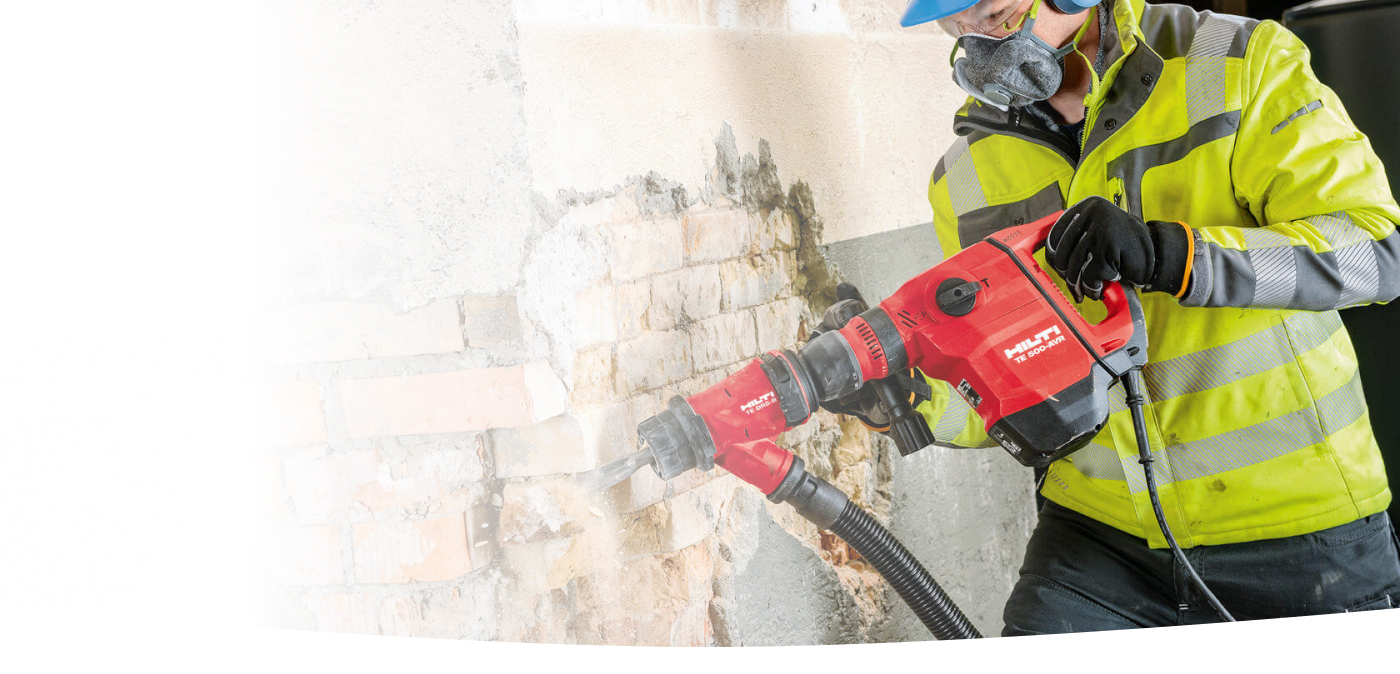
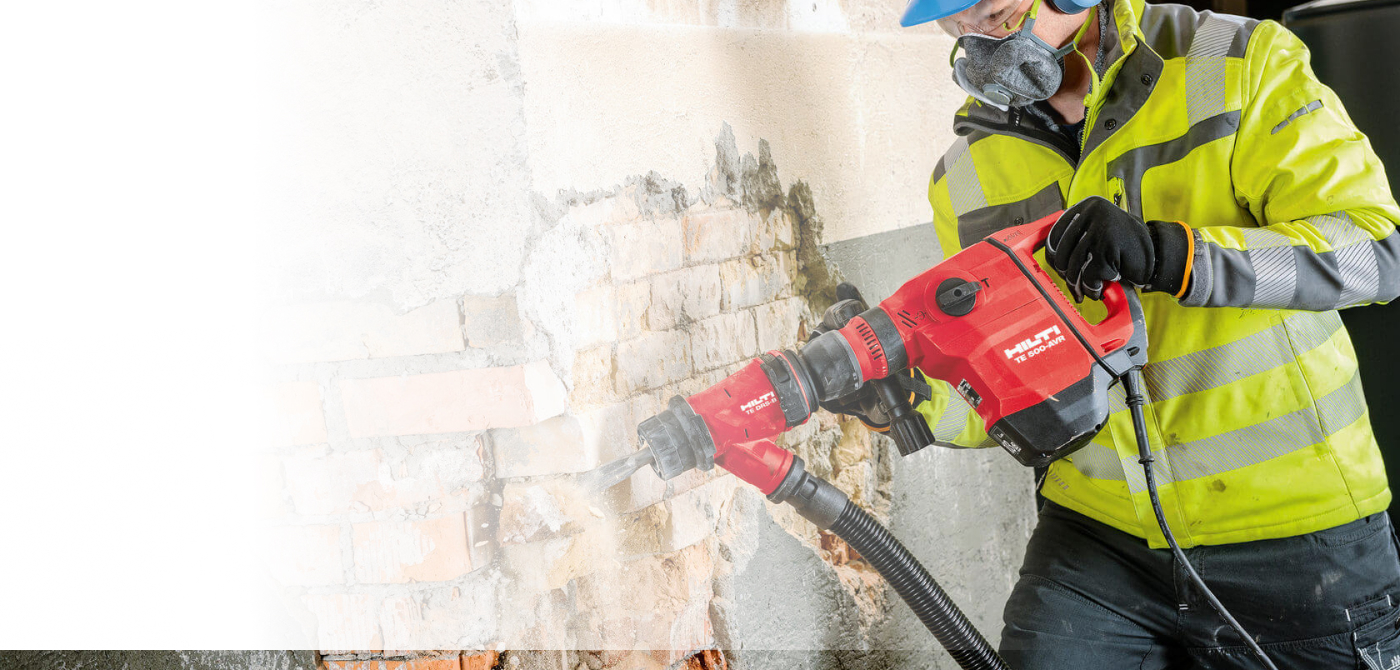
Correction background Hero + Made up Order = need correction Order

diff --git a/src/sass/chunk/_order.sass b/src/sass/chunk/_order.sass
@@ -1,0 +1,77 @@
+.order
+  padding-top: 130px
+  padding-bottom: 190px
+  position: relative
+  background-image: linear-gradient(rgba(95, 64, 1, 0.5), rgba(95, 64, 1, 0.5)), url(../../img/order/order-background.jpg)
+  background-size: cover
+  background-repeat: no-repeat
+  background-position: center
+  &::after, &::before
+    position: absolute
+    content: ""
+    width: 100%
+    height: 137px
+    background-image: url(../../img/order/order-decoration-bottom.png)
+    background-repeat: no-repeat
+    background-size: cover
+    background-position: center
+    bottom: 0
+    left: 0
+  &::after
+    top: 0
+    height: 67px
+    background-image: url(../../img/order/order-decoration-top.png)
+    transform: rotate(0)
+
+  &__container
+    max-width: 1050px
+
+  &__wrap
+    display: flex
+    justify-content: space-between
+    align-items: center
+    width: 100%
+
+  &__content
+    display: flex
+    flex-direction: column
+    align-items: flex-start
+    max-width: 400px
+
+  &__title
+    margin-bottom: 20px
+    font-family: "Gilroy-Bold", sans-serif
+    font-weight: 700
+    font-size: 30px
+    line-height: 37px
+    color: $white
+
+  &__text
+    margin: 0
+    font-family: "Gilroy-Regular", sans-serif
+    font-weight: 400
+    font-size: 20px
+    line-height: 24px
+    color: $white
+
+  &__form-content
+    max-width: 400px
+    padding: 30px 45px 55px 30px
+    max-width: 400px
+    background-color: white
+    border-radius: 20px
+    z-index: 2
+
+  &__heading
+    margin-bottom: 10px
+    font-size: 28px
+    line-height: 35px
+    color: $bronze-olive
+
+  &__descr
+    margin-bottom: 35px
+    font-family: "Gilroy-Regular", sans-serif
+    font-weight: 400
+    font-size: 15px
+    line-height: 18px
+    color: $mine-shaft

diff --git a/src/html/chunk/order.html b/src/html/chunk/order.html
@@ -1,0 +1,46 @@
+<section class="order">
+	<div class="order__container container">
+		<div class="order__wrap">
+			<div class="order__content">
+				<h2 class="order__title">wfqwfq</h2>
+				<p class="order__text">qefqw</p>
+			</div>
+			<div class="order__form-content">
+				<div class="order__heading">Укажите ваши контакты</div>
+				<div class="order__descr">
+					и&nbsp;мы&nbsp;перезвоним вам, чтобы назначить удобное время для
+					демонтажа
+				</div>
+				<form class="order__form form" action="">
+					<div class="form__inner">
+						<label class="form__heading" for="user-name">Ваше имя</label>
+						<input
+							class="form__input input"
+							id="user-name"
+							name="name"
+							type="text"
+							required
+						/>
+					</div>
+					<div class="form__inner">
+						<label class="form__heading" for="user-number">Телефон</label>
+						<input
+							class="form__input input"
+							id="user-number"
+							name="number"
+							type="tel"
+							required
+						/>
+					</div>
+					<div class="form__inner-button">
+						<input
+							class="form__button button"
+							type="submit"
+							value="ЗАКАЗАТЬ БЕСПЛАТНЫЙ ЗАМЕР"
+						/>
+					</div>
+				</form>
+			</div>
+		</div>
+	</div>
+</section>

diff --git a/src/sass/_interface.sass b/src/sass/_interface.sass
@@ -56,6 +56,7 @@
     font-size: 15px
     line-height: 18px
     color: $silver-chalice
+    cursor: pointer
 
   &__inner-button
     position: relative
@@ -65,6 +66,7 @@
       width: 100%
       height: 100%
       background: linear-gradient(0deg, rgba(131, 93, 19, 0.36), rgba(131, 93, 19, 0.36)), linear-gradient(263.81deg, #FBD293 10.32%, #FFD172 98.17%)
+      filter: drop-shadow(0px 4px 4px rgba(0, 0, 0, 0.25))
       border-radius: 10px
       top: 3px
       left: 0
@@ -77,6 +79,7 @@
   &__button
     padding: 30px 55px
     border: 0
+    cursor: pointer
     @media screen and ( max-width: 576px )
       padding: 15px 25px
 

diff --git a/src/sass/chunk/_hero.sass b/src/sass/chunk/_hero.sass
@@ -6,6 +6,19 @@
   background-repeat: no-repeat
   background-size: cover
   background-position: center
+  position: relative
+  &::after
+    position: absolute
+    content: ""
+    background-image: url(../../img/hero/hero-decoration-bottom.png)
+    background-repeat: no-repeat
+    background-size: cover
+    background-position: center
+    width: 100%
+    height: 67px
+    bottom: 0
+    left: 0
+
   @media screen and ( max-width: 768px )
     padding-top: 110px
     padding-bottom: 115px

diff --git a/src/components/modal/modal.html b/src/components/modal/modal.html
@@ -7,7 +7,7 @@
 				и&nbsp;мы&nbsp;перезвоним вам, чтобы назначить удобное время для
 				демонтажа
 			</div>
-			<form class="modal__form form" action="">
+			<form class="modal__form form" action="URL" autocomplete="on">
 				<div class="form__inner">
 					<label class="form__heading" for="name">Ваше имя</label>
 					<input

diff --git a/src/html/index.html b/src/html/index.html
@@ -14,7 +14,7 @@
 			@include('chunk/header.html')
 			<main class="main">
 				@include('chunk/hero.html') @include('chunk/places.html')
-				@include('chunk/services.html')
+				@include('chunk/services.html') @include('chunk/order.html')
 			</main>
 			@include('chunk/footer.html') @include('../components/modal/modal.html')
 			<script src="js/scripts.min.js"></script>

diff --git a/src/sass/style.sass b/src/sass/style.sass
@@ -12,5 +12,6 @@
 @import "chunk/hero"
 @import "chunk/places"
 @import "chunk/services"
+@import "chunk/order"
 @import "chunk/footer"
 @import "../components/modal/modal"
